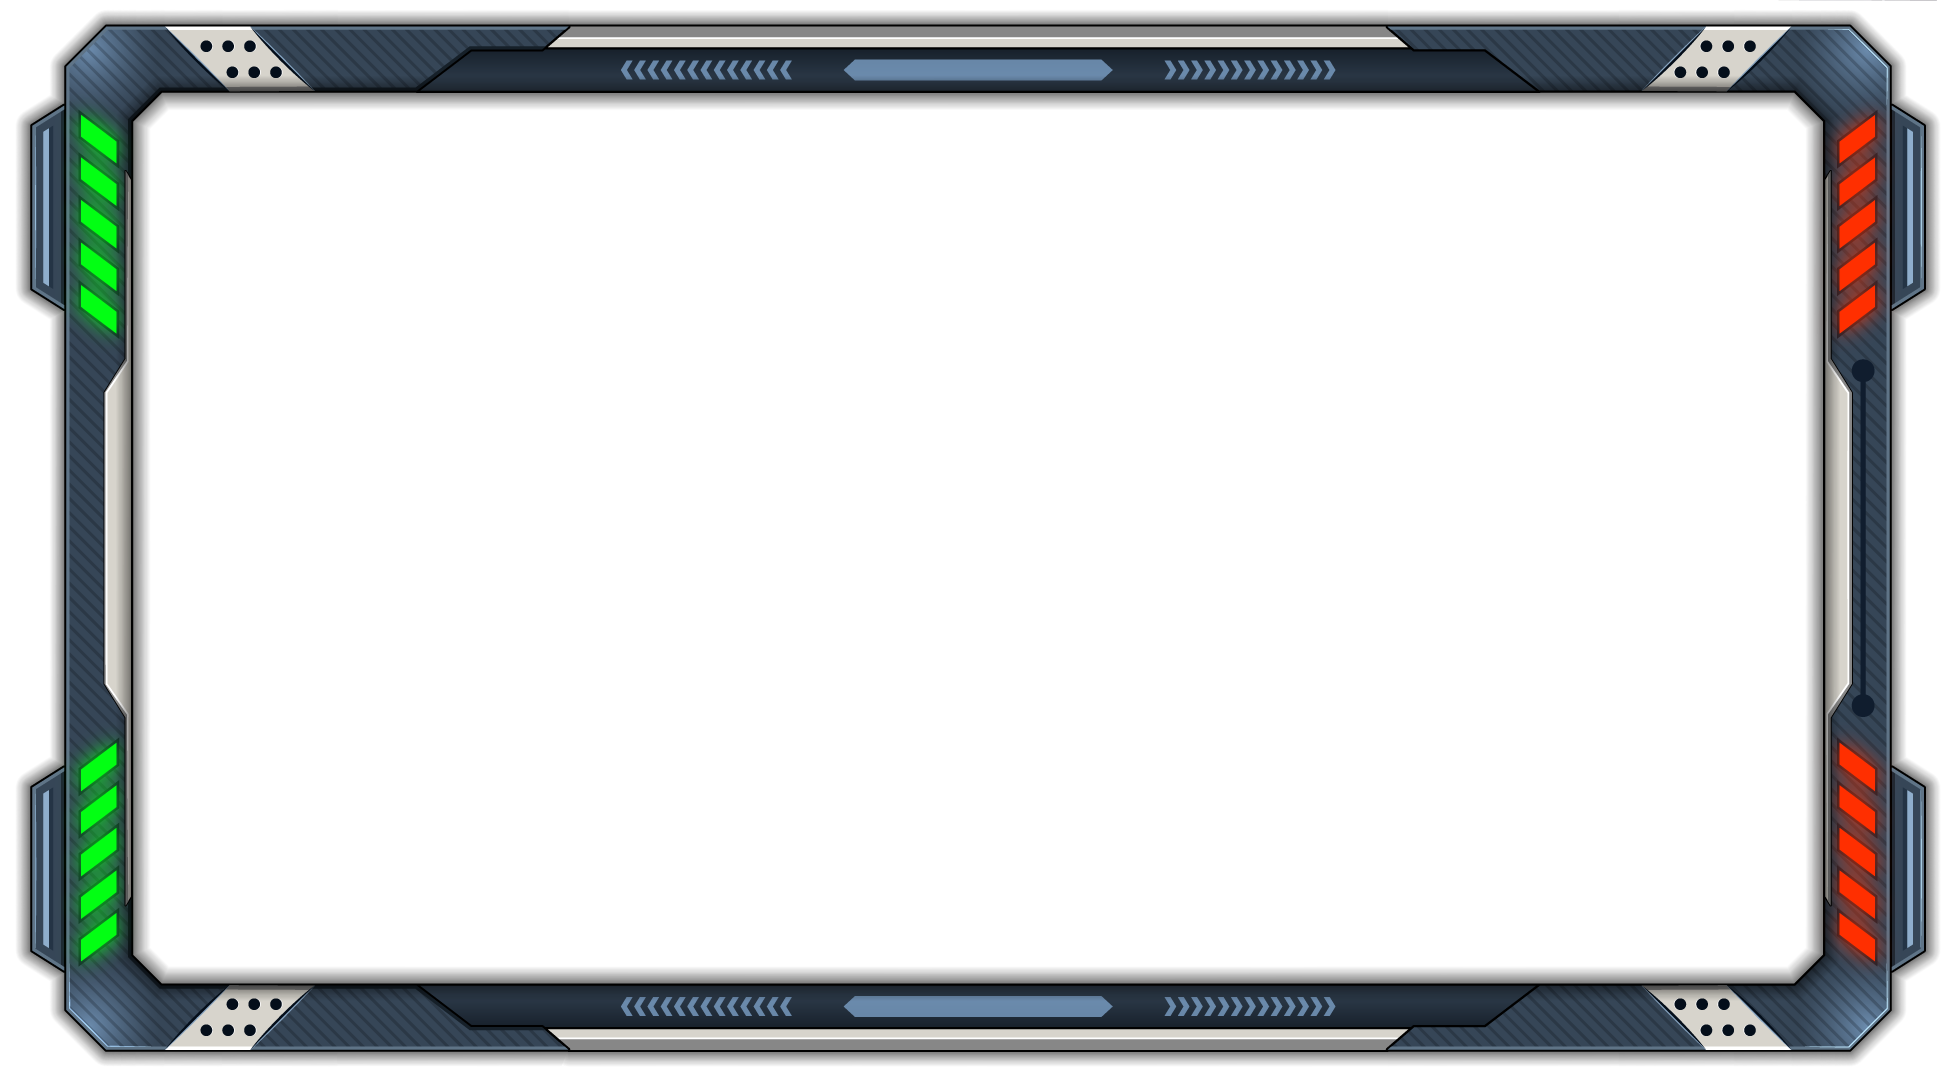
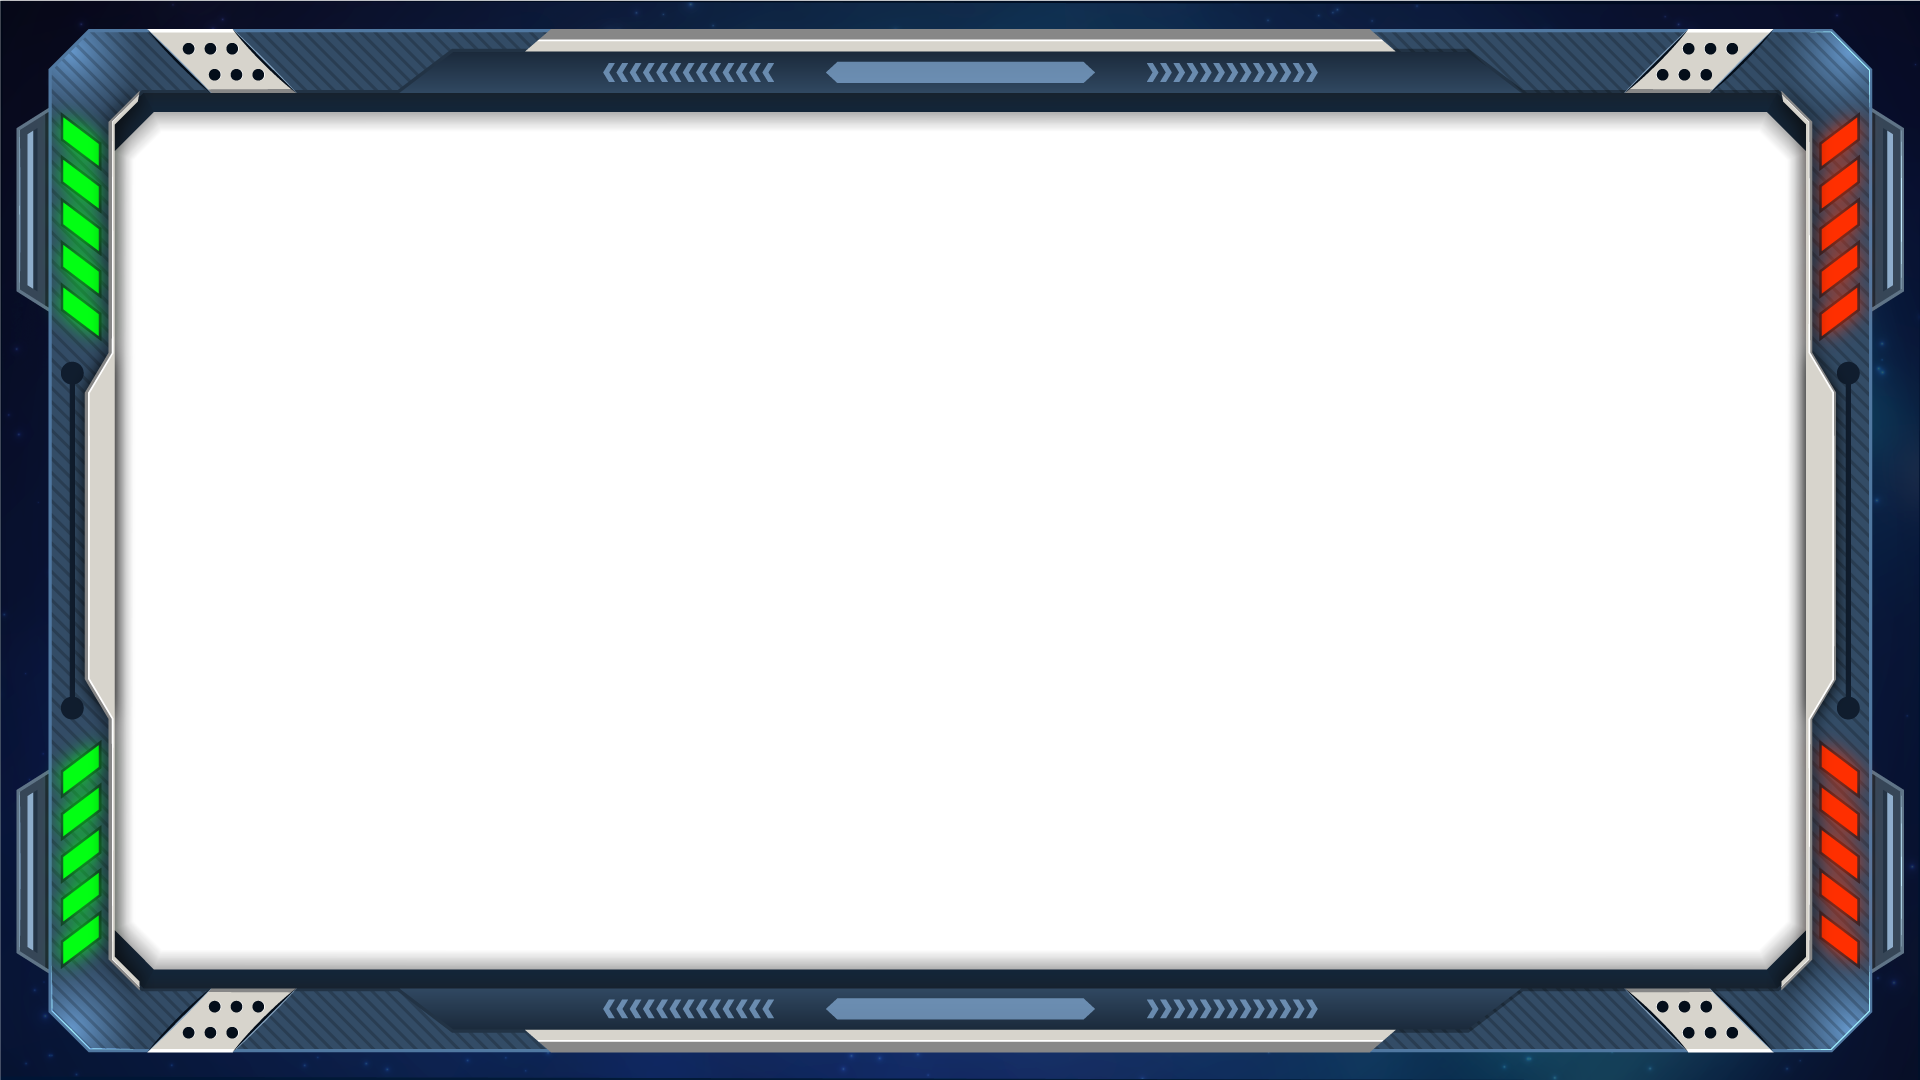
board image and ball size

Changed region(s): [[0.0, 0.0, 1.0, 1.0]]

diff --git a/assets/scripts/Field.js b/assets/scripts/Field.js
@@ -292,6 +292,15 @@ NORD.Field = function() {
   // this.interactive = true;
   // this.interactiveChildren = true;
 
+  this.bakGroundImage = Util.createSprite({
+    parent: this,
+    texture: 'GameBackGround',
+    aX: 0.5,
+    aY: 0.5,
+    scaleX: 0.375,
+    scaleY: 0.475
+  });
+
   this.centerLine = Util.createSprite({
     parent: this,
     texture: 'Separator-Line',
@@ -743,7 +752,7 @@ NORD.Field.prototype.initRound = function() {
   }
 
   this.ballMaxSpeedBoostTimer = 0;
-  this.ballSize = this.config.ballSize.value;
+  this.ballSize = 18; //this.config.ballSize.value;
   this.ballSpeedUpDisable = false;
 
   if (this.roundGenerator) {
@@ -2230,7 +2239,8 @@ RoundGenerator.prototype.initRound = function() {
   console.log("mode selected", this.roundMode);
   this.initRoundMode();
 
-  this.field.ballSize = 18;
+  this.ballSize = 80;
+
   if (this.roundMode === 'BIG_BALL_LITTLE_PADDLES') {
     this.field.ballSize = this.field.config.bblpModeBallSize.value;
     this.field.paddleLeft.setSize(this.field.smallPaddleData.size, this.field.smallPaddleData.shape);

diff --git a/assets/scripts/ScreenMainMenu.js b/assets/scripts/ScreenMainMenu.js
@@ -70,7 +70,7 @@ NORD.ScreenMainMenu = function(config) {
       center: 'two',
       right: 'three'
     };
-    debugger;
+
     var config = NORD.game.config;
     config.players = dataMap[side];
     NORD.game.setConfig(config); // console.log('SSS:', config)
@@ -194,7 +194,6 @@ NORD.ScreenMainMenu = function(config) {
     MultiplayerStarted = false;
     // if(!(this.switcherPlayers.switchingState == 'none' && this.switcherDificulty.switchingState == 'none' && this.switcherMode.switchingState == 'none')) return;
     if (!(_this.switcherPlayers.switchingState == 'none' && _this.switcherMode.switchingState == 'none')) return; // console.log('Click!');
-    debugger;
 
     var config = NORD.game.config;
     if (config.players == 'three') {

diff --git a/assets/scripts/App.js b/assets/scripts/App.js
@@ -292,6 +292,9 @@ NORD.initGameDefinitions = function() {
   }, {
     name: 'PauseButton',
     url: 'assets/images/popup/GamePlay/Pause-Button.png'
+  }, {
+    name: 'GameBackGround',
+    url: 'assets/images/popup/GamePlay/Background.png'
   }]);
 }; //=========================================================================================================================================================================//
 //=========================================================================================================================================================================//
